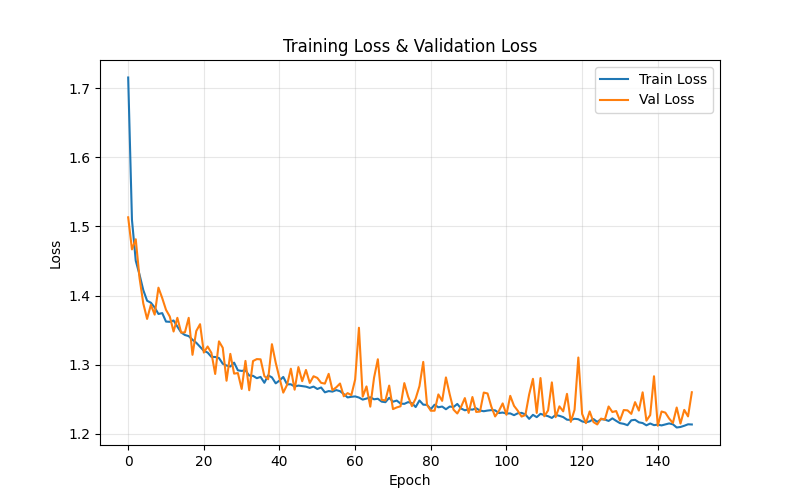
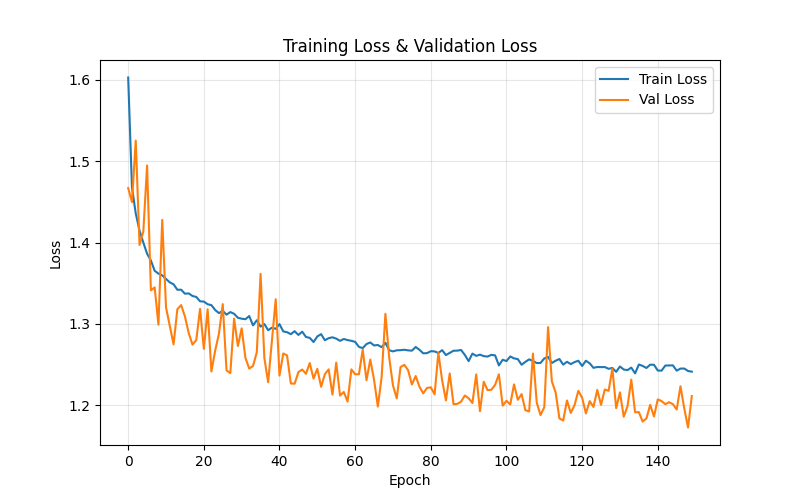
Implement batch normalization and dropout rate to enhance neural network

diff --git a/training-model.py b/training-model.py
@@ -39,7 +39,7 @@ class LandmarkDataset(Dataset):
 
 #Specifying the neural network
 class Classifier(nn.Module):
-    def __init__(self, input_size=1434, hidden_size1=128, hidden_size2=64, output_size=7):
+    def __init__(self, input_size=1434, hidden_size1=128, hidden_size2=64, output_size=7, dropout_prob=0.4):
         """
         Args:
             input_size: Number of input features, 468 landmarks * 3 coords = 1404
@@ -50,9 +50,13 @@ class Classifier(nn.Module):
         
         # Define the layers
         self.layer1 = nn.Linear(input_size, hidden_size1)
+        self.batch_norm1 = nn.BatchNorm1d(hidden_size1)
         self.activation1 = nn.ReLU()
+        self.dropout1 = nn.Dropout(dropout_prob)
         self.layer2 = nn.Linear(hidden_size1, hidden_size2)
+        self.batch_norm2 = nn.BatchNorm1d(hidden_size2)
         self.activation2 = nn.ReLU()
+        self.dropout2 = nn.Dropout(dropout_prob)
         self.layer3 = nn.Linear(hidden_size2, output_size)
         
     def forward(self, x):
@@ -60,9 +64,13 @@ class Classifier(nn.Module):
         Forward pass through the network.
         """
         x = self.layer1(x)
+        x = self.batch_norm1(x)
         x = self.activation1(x)
+        x = self.dropout1(x)
         x = self.layer2(x)
+        x = self.batch_norm2(x)
         x = self.activation2(x)
+        x = self.dropout2(x)
         x = self.layer3(x)
         return x
 
